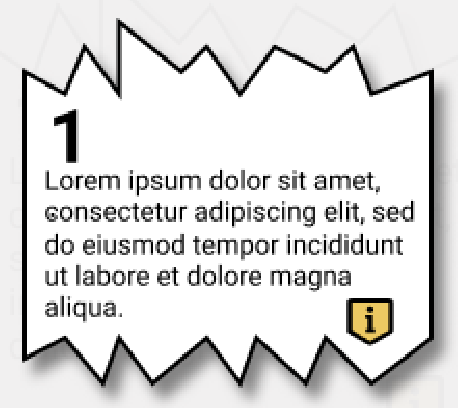
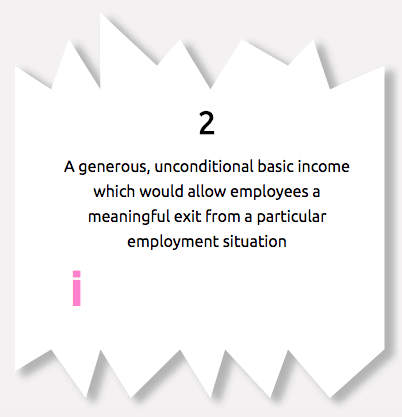
#19 Add in modal screenshots and adjust spacing

Changed region(s): [[0.0299, 0.0294, 0.9851, 1.0], [0.4776, 0.2647, 0.5373, 0.3235]]

diff --git a/src/components/ModalCard.js b/src/components/ModalCard.js
@@ -4,9 +4,9 @@ const ModalCard = ({ topinfo, bottominfo, imgsrc, ...props }) => {
   return (
     <div className="modal-card" {...props}>
       <div>
-        <h1 className="card-title f3">{topinfo}</h1>
+        <h1 className="f3 pa3">{topinfo}</h1>
         <img src={imgsrc} alt={topinfo} className="card-img" />
-        <p className="card-desc">{bottominfo}</p>
+        <p className="card-desc mt4">{bottominfo}</p>
       </div>
     </div>
   );

diff --git a/src/components/Snippet.js b/src/components/Snippet.js
@@ -1,5 +1,4 @@
 import React from 'react';
-import '../css/Images.css';
 import ModalInfograph from './ModalInfograph';
 
 const Snippet = ({ title, desc, id }) => {

diff --git a/src/css/App.css b/src/css/App.css
@@ -1,5 +1,6 @@
 body {
   font-family: Ubuntu, sans-serif;
+  background: grey;
 }
 
 .app {
